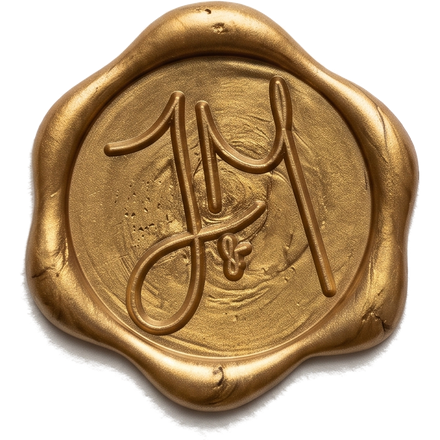
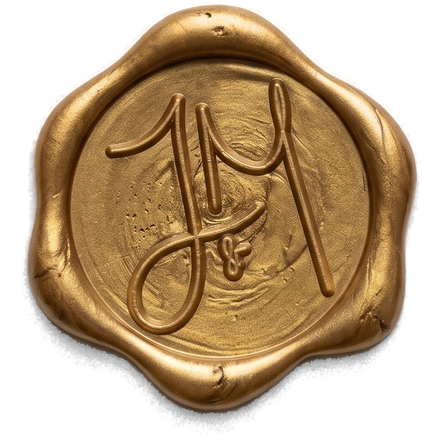
Poner el lacre dorado de verdad, sin halo
CONFIG.sealColor pasa a 'lacre oro' y el sitio estampa la foto del sello
real recortada. Los tres SVG hechos por código siguen en el repo y siguen
siendo opciones válidas de CONFIG; se quedan por si algún día hace falta
un sello que cambie de color.

El recorte se rehizo por saturación, no por brillo. La sombra que el sello
proyecta sobre el papel es gris (saturación ~5) y la cera es de color (42
el oro, 24 el vino): pidiendo color, la sombra se cae sola, y en la orilla
la saturación baja en proporción a cuánta cera cubre el pixel, que es justo
lo que el alfa tiene que valer. Además se desmezcla el borde —lo que se ve
ahí es cera sobre papel blanco, así que se le resta el papel— porque si no
el filo arrastra blanco y sobre el verde se ve como halo. Los reflejos muy
claros de encima de la cera casi no tienen color y se abrían como agujeros:
se tapan rellenando lo que el fondo no alcanza desde la orilla, sin volver
a meter la sombra.

Verificado: sin errores de consola ni scroll horizontal en compu, celular
y reduced-motion; accesibilidad sigue pasando.

Claude-Session: https://claude.ai/code/session_013ATdvkiY23J3nWWssDzVth

Changed region(s): [[0.0295, 0.0, 0.975, 0.975]]

diff --git a/assets/js/site.js b/assets/js/site.js
@@ -18,7 +18,7 @@
      Editar aquí es lo mismo que mover los controles del panel.
      -------------------------------------------------------- */
   var CONFIG = {
-    sealColor: 'vino',                // 'dorado' | 'vino' | 'verde'
+    sealColor: 'lacre oro',                // 'lacre oro' | 'lacre vino' (fotos) | 'dorado' | 'vino' | 'verde' (SVG)
     backdrop: 'vino',                 // 'vino' | 'tinta' | 'verde'
     photoTone: 'blanco y negro',      // 'blanco y negro' | 'sepia' | 'color'
     floatingDetails: false,           // los novios pidieron quitar los destellos
@@ -34,7 +34,18 @@
   // Cada lacre es un SVG aparte porque el color va dentro del filtro de luz
   // que le da el relieve (ver assets/sello-*.svg); no es un fondo que se pueda
   // cambiar desde aquí.
-  var SEALS = { dorado: 'assets/sello-dorado.svg', vino: 'assets/sello-vino.svg', verde: 'assets/sello-verde.svg' };
+  // Los tres primeros son SVG: el color vive dentro del filtro de luz que les
+  // da el relieve (ver assets/sello-*.svg y design/sello.py), por eso son un
+  // archivo por color y no un fondo que se cambie desde aquí. Los dos últimos
+  // son los lacres de verdad, fotografiados y recortados: pesan más y no se
+  // pueden recolorear, pero tienen el brillo de la cera auténtica.
+  var SEALS = {
+    dorado: 'assets/sello-dorado.svg',
+    vino:   'assets/sello-vino.svg',
+    verde:  'assets/sello-verde.svg',
+    'lacre oro':  'assets/sello-foto-oro.png',
+    'lacre vino': 'assets/sello-foto-vino.png'
+  };
   var PHOTO_FILTERS = {
     'blanco y negro': 'grayscale(1) contrast(1.04)',
     'sepia': 'sepia(.55) contrast(1.03) saturate(.85)',

diff --git a/index.html b/index.html
@@ -140,12 +140,12 @@
 </div>
 </div>
 </div>
-<!-- El sello no es un círculo con el monograma encima: es un SVG donde el
-     relieve se calcula con luz (assets/sello-*.svg). El borde es irregular
-     como el charco de cera de verdad, y el monograma se ve hundido en la cera
-     porque está iluminado, no pintado de otro color. -->
+<!-- El lacre es la foto del sello de verdad, recortada del papel
+     (assets/sello-foto-oro.png). En assets/sello-*.svg quedan los tres
+     hechos por código, que sí se recolorean; site.js elige cuál según
+     CONFIG.sealColor. -->
 <div id="jm-seal" style="position:absolute;left:50%;top:56%;width:104px;height:104px;margin:-52px 0 0 -52px;z-index:7;transition:opacity .5s ease,transform .6s cubic-bezier(.62,.02,.2,1)">
-<img id="jm-seal-img" src="assets/sello-vino.svg" alt="" aria-hidden="true" style="width:100%;height:100%;display:block;filter:drop-shadow(5px 7px 10px rgba(0,0,0,.5)) drop-shadow(1px 2px 2px rgba(0,0,0,.4))">
+<img id="jm-seal-img" src="assets/sello-foto-oro.png" alt="" aria-hidden="true" style="width:100%;height:100%;display:block;filter:drop-shadow(4px 6px 9px rgba(0,0,0,.42)) drop-shadow(1px 1px 2px rgba(0,0,0,.3))">
 </div>
 </div>
 </div>
